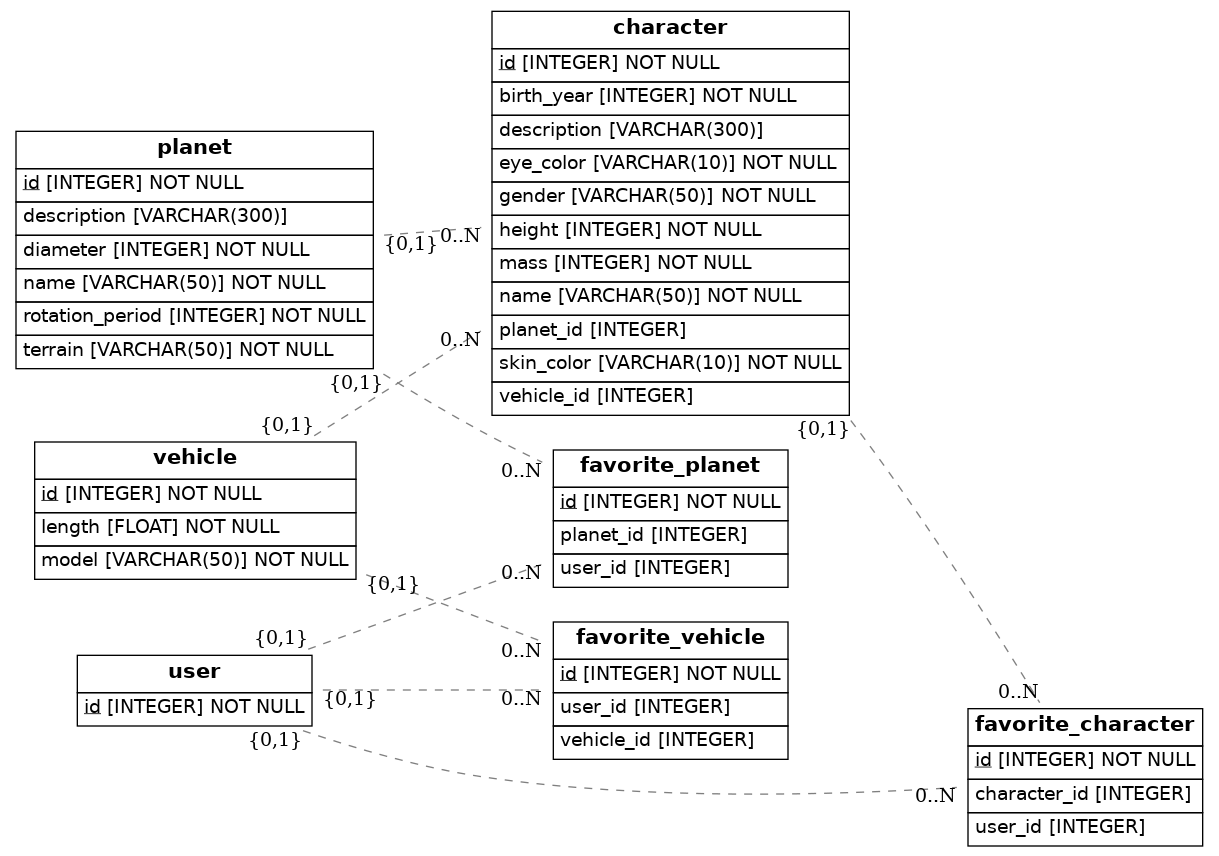
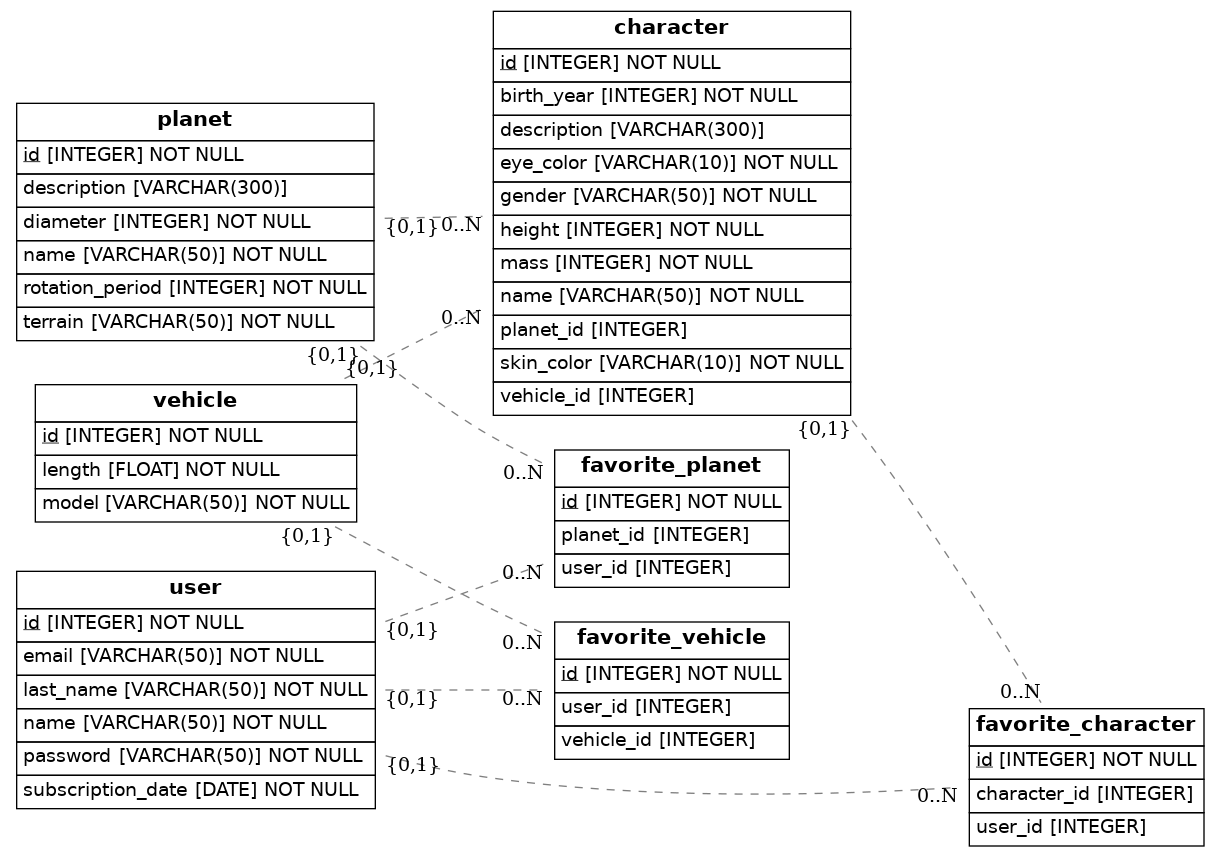
UserChanges

diff --git a/src/models.py b/src/models.py
@@ -1,6 +1,6 @@
 import os
 import sys
-from sqlalchemy import Column, ForeignKey, Integer, String, Float
+from sqlalchemy import Column, ForeignKey, Integer, String, Float, Date
 from sqlalchemy.orm import relationship, declarative_base
 from sqlalchemy import create_engine
 from eralchemy2 import render_er
@@ -41,6 +41,11 @@ class Character(Base) :
 class User(Base) :
     __tablename__= 'user'
     id = Column(Integer, primary_key=True)
+    name = Column(String(50), nullable=False)
+    last_name = Column(String(50), nullable=False)
+    email = Column(String(50), nullable=False)
+    password = Column(String(50), nullable=False)
+    subscription_date = Column(Date, nullable=False)
 
 class Favorite_planet(Base) :
     __tablename__= 'favorite_planet'
